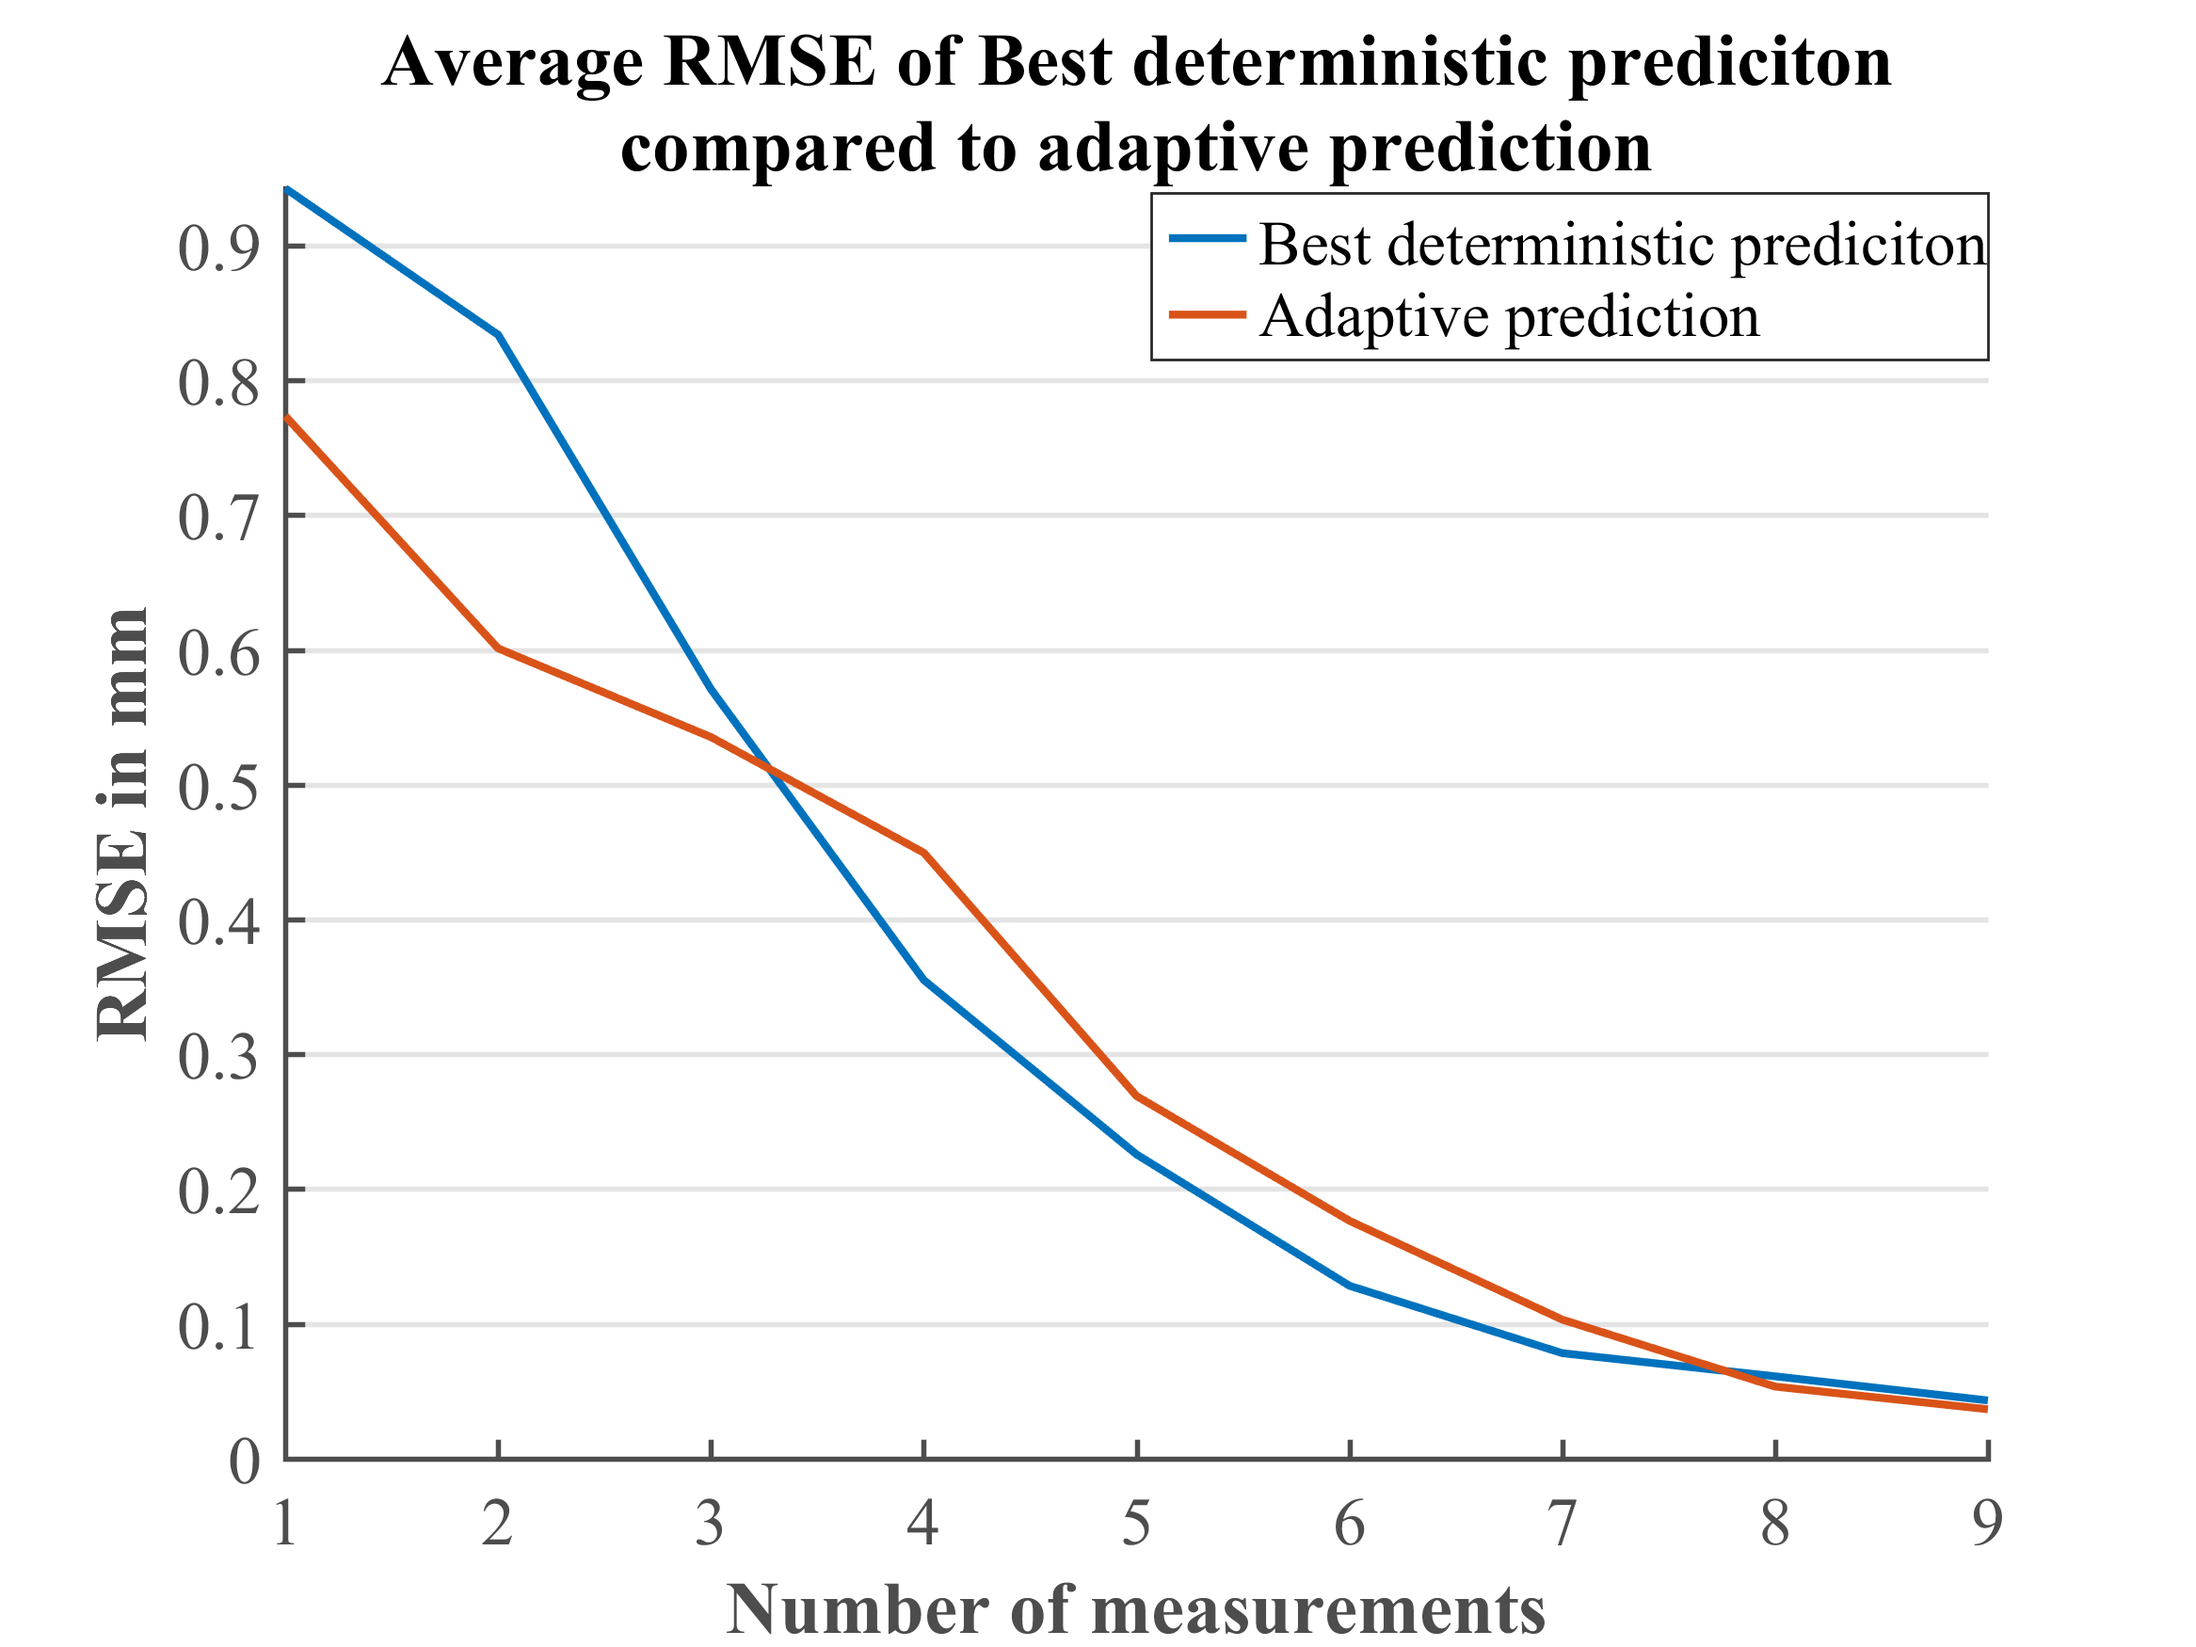
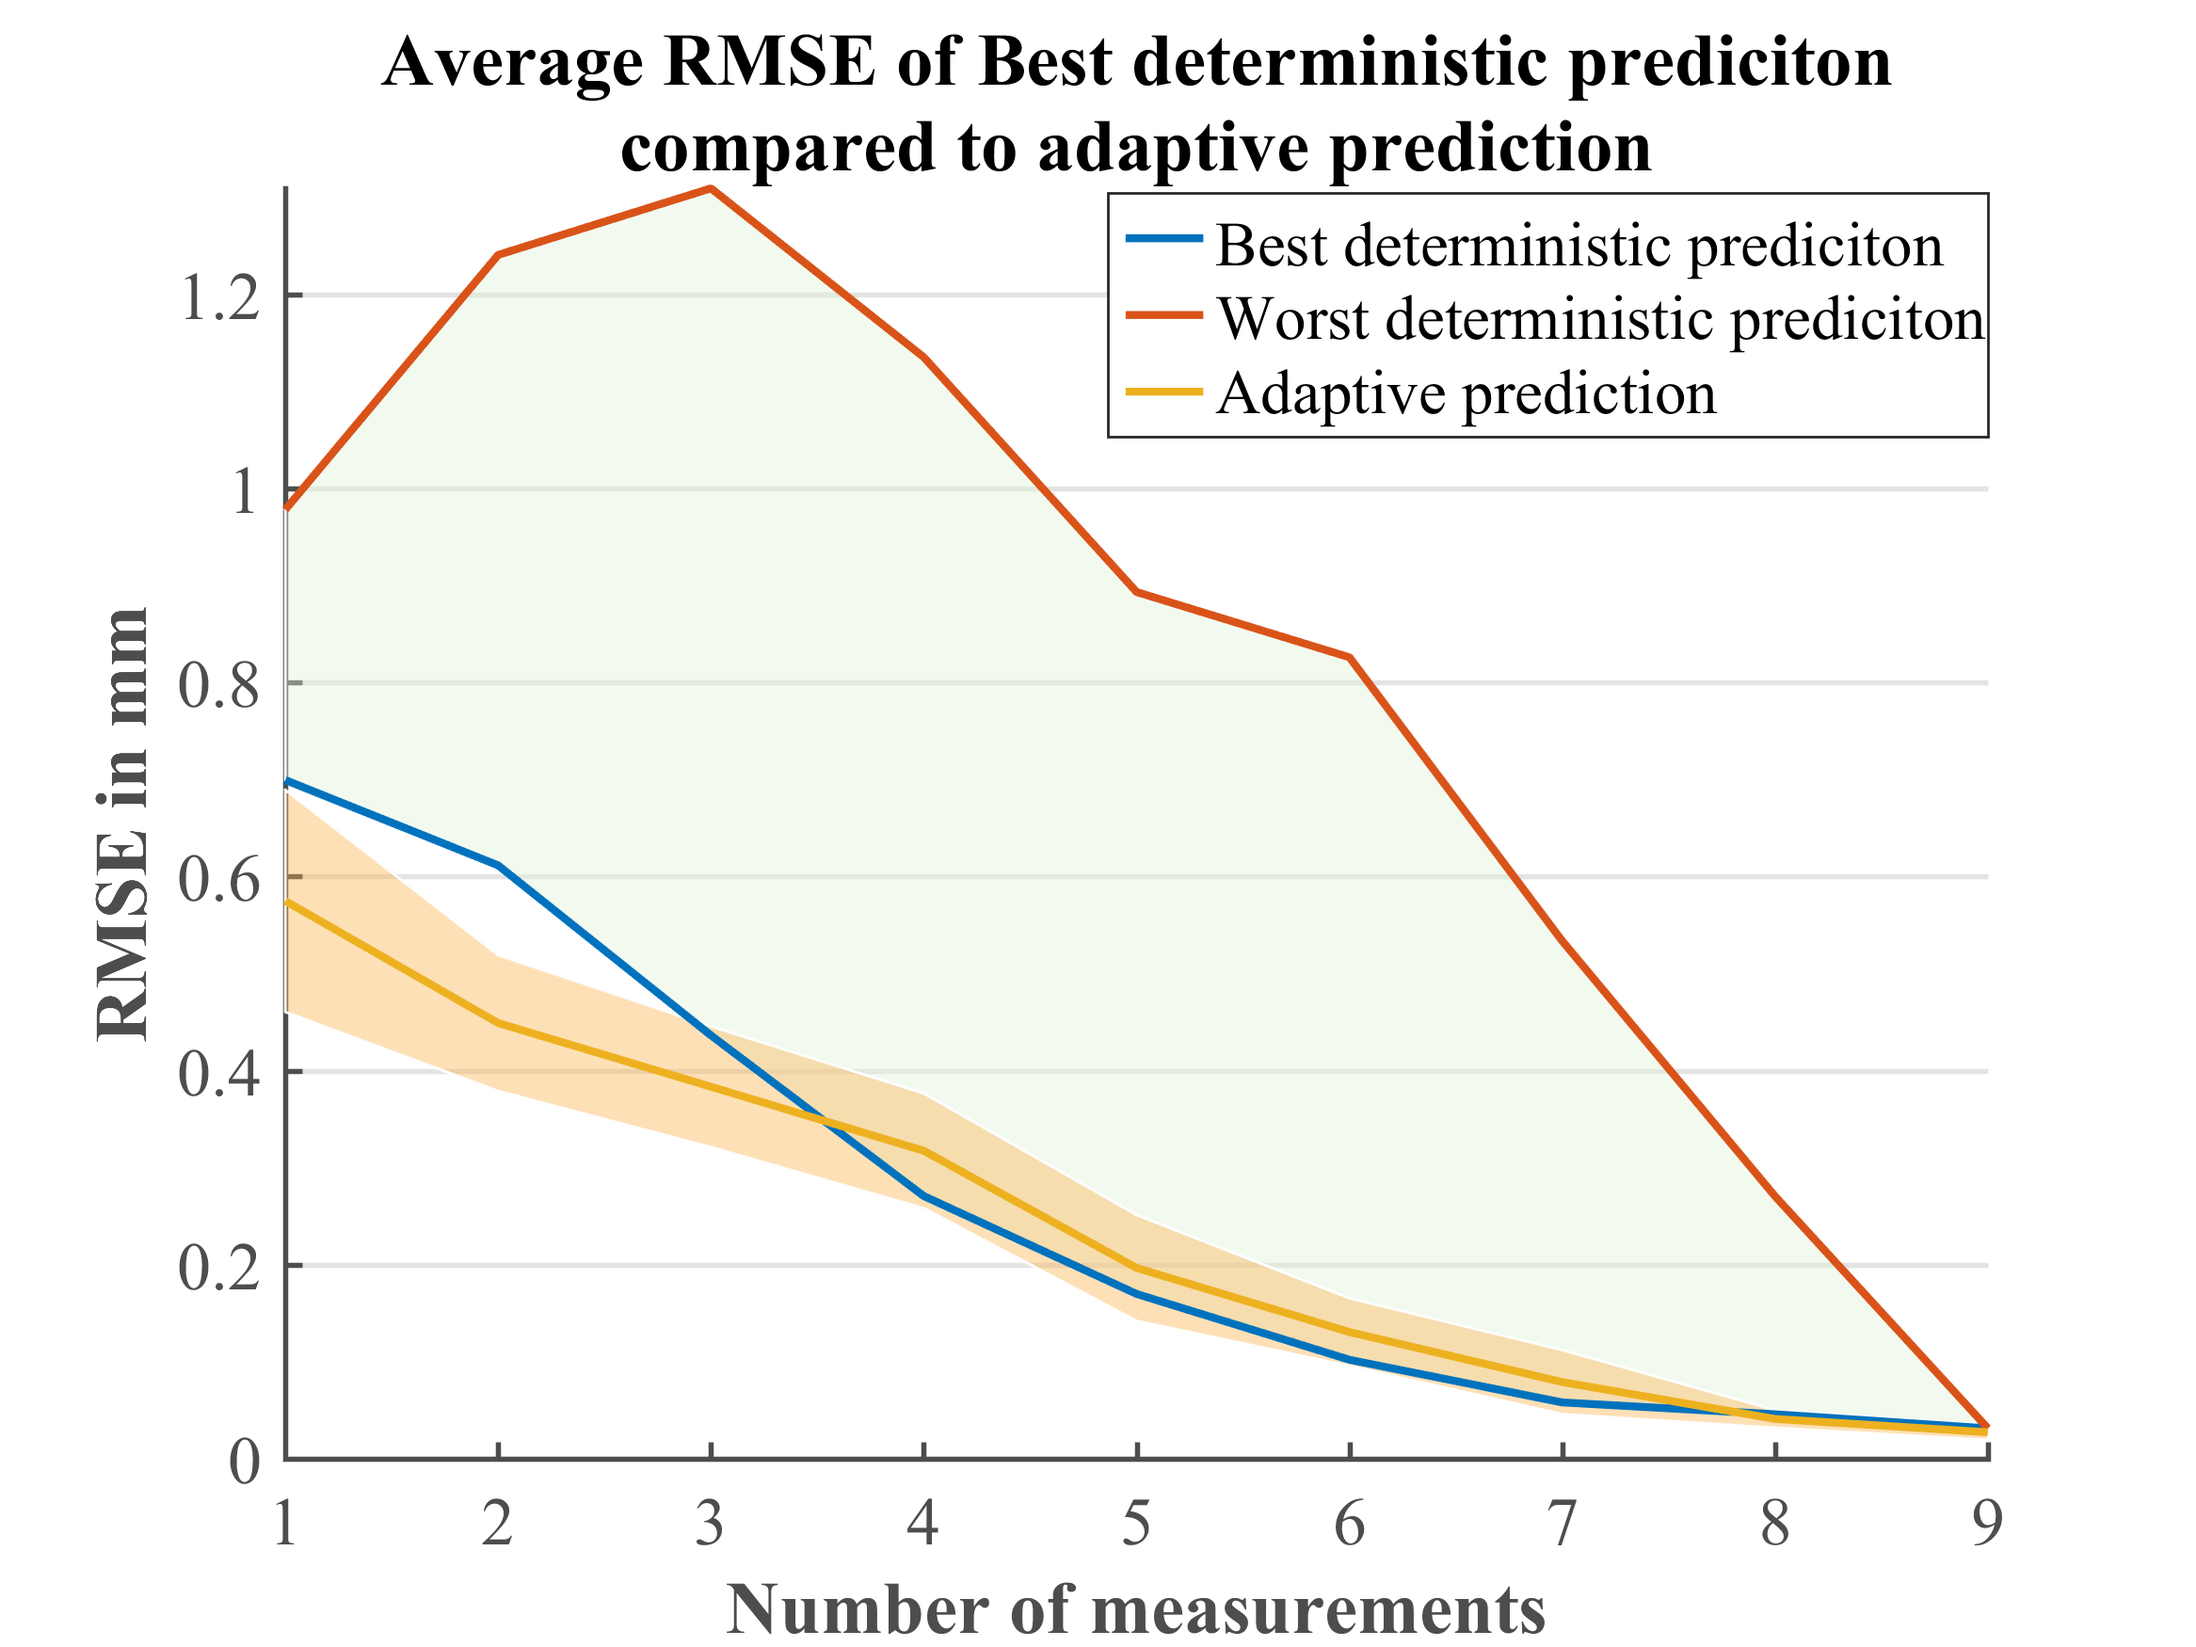
deterministic vs adaptive comparison
made changes to the code  to include worst seterministic and plot standard error of adaptive predictions

diff --git a/compareDetAdaptiveInner.m b/compareDetAdaptiveInner.m
@@ -11,168 +11,122 @@ path(path,'\\megara\dlmr\Manoj\all data sensitivity inner'); % all data files in
 load('innerEigWithkrigYtp12batch45basis_1.0W1_0.0W2.mat'); % contains structure seqPred %
 
 
-
-% %% deterministic pattern search
-% numberCompleteMeasure=10;
-% regionsMes(9).Seq(1).Pattern(1).Dev=[];
-% 
-% for nMes=1:9
-% 
-% 	delta(nMes).Min=inf;
-% 	delta(nMes).MinSeq=[];
-% 	
-% 	
-% 	for j=1:length(regionsMes(nMes).Seq)
-% 		
-% 		
-% 		rmseD=0;
-% 		rmseA=0;
-% 		allMesReg=regionsMes(nMes).Seq(j).Regions;
-% 		nMesReg=length(allMesReg);
-% 		
-% 		for i=numberCompleteMeasure+1:50 % i for each part
-% 			
-% 			% saving predictions
-% 			ytt(i,:)=regionsMes(nMes).Seq(j).Pattern(i).Dev;
-% 			VarYtt(i,:)=regionsMes(nMes).Seq(j).Pattern(i).Var;
-% 			rmseD=rmseD+regionsMes(nMes).Seq(j).Pattern(i).Rmse;
-% 			rmseA=rmseA+seqPred(i).Snap(nMesReg).RmseT(nMesReg);
-% 		end
-% 		delta(nMes).Seq(j)=((rmseD-rmseA)/rmseD)*100;
-% 		
-% 		if delta(nMes).Seq(j)<delta(nMes).Min
-% 			delta(nMes).Min=delta(nMes).Seq(j);
-% 			delta(nMes).MinSeq=allMesReg;
-% 		end
-% 	end
-% 	
-% 	bestSeqComp(nMes)=delta(nMes).Min;
-% end
-% 
-% fig=figure;
-% hh=plot(bestSeqComp(1:end));
-% fig=changeAxesLooks(fig,{'Average improvement in RMSE with adaptive measurement','compared to best fixed measurement sequence'},...
-% 	'Number of measurements','Percentage improvement');
-% hh.LineWidth=1.5;
-
 %% Rmse diff AFTER EACH MEASUREMET AVERAGED FOR ALL PATTERNS
 
-numberCompleteMeasure=10;
-regionsMes(9).Seq(1).Pattern(1).Dev=[];
+numberCompleteMeasure   =10;
+maxSnap                 =9;
+nPattern                =length(seqPred);
+totalInstances          = nPattern-(numberCompleteMeasure);
+
+
+regionsMes(maxSnap).Seq(1).Pattern(1).Dev=[];
 
 
 %% rmse for a given sequence(j) averaged over all parts(variation pattern(i)), compared
 %with average of rmse of adaptive measurements after same no of
 %measurements for all parts(variation pattern)
 for nMes=1:9
-	fileName=sprintf('detAllSeq%dReg.mat',nMes);
-	tempvar=load(fileName);
-	regionsMes(nMes).Seq=tempvar.regionsMes.Seq;
-	delta(nMes).Min=inf;
-	delta(nMes).MinSeq=[];
-	
-	for j=1:length(regionsMes(nMes).Seq)
-		rmseD=0;
-		rmseA=0;
-		
-		allMesReg=regionsMes(nMes).Seq(j).Regions;
-		nMesReg=length(allMesReg);
-		for i=numberCompleteMeasure+1:50 % i for each part
-			
-			% saving predictions
-% 			ytt(i,:)=regionsMes(nMes).Seq(j).Pattern(i).Dev;
-% 			VarYtt(i,:)=regionsMes(nMes).Seq(j).Pattern(i).Var;
-			rmseD=rmseD+regionsMes(nMes).Seq(j).Pattern(i).Rmse;
-			rmseA=rmseA+seqPred(i).Snap(nMesReg).RmseT(nMesReg);
-		end
-		delta(nMes).Seq(j)=((rmseD-rmseA)/rmseD)*100;
-		
-		if delta(nMes).Seq(j)<delta(nMes).Min
-			delta(nMes).Min=delta(nMes).Seq(j);
-			delta(nMes).RmseD=rmseD;
-			delta(nMes).RmseA=rmseA;
-			delta(nMes).MinSeq=allMesReg;
-		end
-	end
-	
-	bestSeqComp(nMes)=delta(nMes).Min;
+    fileName=sprintf('detAllSeq%dReg.mat',nMes);
+    tempvar=load(fileName);
+    regionsMes(nMes).Seq=tempvar.regionsMes.Seq;
+    
+    delta(nMes).Min=inf;
+    delta(nMes).MinSeq=[];
+    
+    delta(nMes).Max=0;
+    delta(nMes).MaxSeq=[];
+    
+    for j=1:length(regionsMes(nMes).Seq)
+        rmseD=0;
+        rmseA=0;
+        
+        allMesReg=regionsMes(nMes).Seq(j).Regions;
+        nMesReg=length(allMesReg);
+        for i=numberCompleteMeasure+1:totalInstances % i for each part
+            
+            % adding Rmse
+            rmseD=rmseD+regionsMes(nMes).Seq(j).Pattern(i).Rmse;
+            rmseA=rmseA+seqPred(i).Snap(nMesReg).RmseT(nMesReg);
+        end
+        delta(nMes).Seq(j)=((rmseD-rmseA)/rmseD)*100;
+        
+        if delta(nMes).Seq(j)<delta(nMes).Min
+            delta(nMes).Min=delta(nMes).Seq(j);
+            delta(nMes).RmseDetMin=rmseD;
+            delta(nMes).RmseA=rmseA;
+            delta(nMes).MinSeq=allMesReg;
+            
+        end
+        if delta(nMes).Seq(j)>delta(nMes).Max
+            delta(nMes).Max=delta(nMes).Seq(j);
+            delta(nMes).RmseDetMax=rmseD;
+            delta(nMes).RmseA=rmseA;
+            delta(nMes).MaxSeq=allMesReg;
+        end
+    end
+    
 end
+
+%% plotting 
 
 for i=1:nMes
-	rmseAvgDet(i)=delta(i).RmseD;
-	rmseAvgAdap(i)=delta(i).RmseA;
+    rmseAvgDetMin(i)=delta(i).RmseDetMin;
+    rmseAvgDetMax(i)=delta(i).RmseDetMax;
+    rmseAvgAdap(i)=delta(i).RmseA;
 end
 
-nPattern=50;
-totalInstances= nPattern-(numberCompleteMeasure);
+% standard error claculation
+rmseSE=zeros(totalInstances,maxSnap);
+count=1;
+for i=numberCompleteMeasure+1:nPattern    
+    rmseSE(count,:)=seqPred(i).Snap(maxSnap).RmseT;
+    count=count+1;
+end
+stdError=std(rmseSE)./sqrt(size(rmseSE,1));
+stdError=stdError.*1.96;
+% average
+rmseAvgDetMin=rmseAvgDetMin./totalInstances;
+rmseAvgAdap=rmseAvgAdap./totalInstances;
+rmseAvgDetMax=rmseAvgDetMax./totalInstances;
 
-% Plotting average RMSE
+% plotting standard error
+upperStdErr=rmseAvgAdap+stdError;
+lowerStdErr=rmseAvgAdap-stdError;
+fillRmseYAdap=[upperStdErr,fliplr(lowerStdErr)]';
+
 fig=figure;
-hh=plot(1:length(rmseAvgDet),rmseAvgDet./totalInstances,1:length(rmseAvgAdap),rmseAvgAdap./totalInstances);
+
+fillX=[1:length(rmseAvgDetMax),fliplr(1:length(rmseAvgDetMin))]';
+fillYDet=[rmseAvgDetMax,fliplr(rmseAvgDetMin)]';
+
+patchHandle=patch(fillX,fillYDet,[224,243,219]./256);
+patchHandle.FaceAlpha=0.4;
+patchHandle.EdgeColor=[255,255,255]./256; % now white
+hold all
+patchHandle=patch(fillX,fillRmseYAdap,[254,178,76]./256);
+patchHandle.FaceAlpha=0.4;
+patchHandle.EdgeColor=[255,255,255]./256;
+
+% Plotting means, max and min
+hold all
+hh=plot(1:length(rmseAvgDetMin),rmseAvgDetMin,...
+    1:length(rmseAvgDetMax),rmseAvgDetMax,...
+    1:length(rmseAvgAdap),rmseAvgAdap);
+
 fig=changeAxesLooks(fig,{'Average RMSE of Best deterministic prediciton','compared to adaptive prediction'},...
-	'Number of measurements','RMSE in mm');
+    'Number of measurements','RMSE in mm');
 
 set(hh,'linewidth',1.5);
 
-legendflex(hh, {'Best deterministic prediciton','Adaptive prediction'}, ...
-	'anchor', {'ne','ne'}, ...
-	'buffer', [0 0], ...
-	'nrow',   2,...
-	'fontsize',12, ...
-	'xscale', 0.66, ...
-	'box','on');
+legendflex(hh, {'Best deterministic prediciton','Worst deterministic prediciton','Adaptive prediction'}, ...
+    'anchor', {'ne','ne'}, ...
+    'buffer', [0 0], ...
+    'nrow',   3,...
+    'fontsize',12, ...
+    'xscale', 0.66, ...
+    'box','on');
+
+
 print('-r400','detAdpCompHinge','-dpng');
-
-% Plotting average RMSE improvement
-fig=figure;
-hh=plot(bestSeqComp(2:end));
-fig=changeAxesLooks(fig,{'Average improvement in RMSE with adaptive measurement','compared to best fixed measurement sequence'},...
-	'Number of measurements','Percentage improvement');
-hh.LineWidth=1.5;
-
-
-%% plotting rmse sensitivity separately
-% 
-% % nBasis		=40;%[5:5:60];
-% numberCompleteMeasure=10;
-% maxSnap=9;
-% 
-% % plot parameters
-% markers = {'o','s','d','^','v','x','+','*','.','>','<','p','h','o','s','d','^','v','x'};
-% cmapRmsePlot = cbrewer('qual','Set1',length(nBasis));
-% 
-% % reading data from file
-% 
-% for j=1:length(nTrainBatch)
-% 	
-% 	for w=1:length(infoWeight)
-% 		
-% 		for ww=1:length(distweight)
-% 			
-% 			for k=1:length(nBasis)
-% 				
-% 				fileString=sprintf('innerEigWithkrigYtp1%ibatch%ibasis_%.1fW1_%.1fW2.mat',nTrainBatch(j),nBasis(k),infoWeight(w),distweight(ww));
-% 				seqPred=load (fileString);
-% 				seqPred=seqPred.seqPred;
-% 				
-% 				for i=numberCompleteMeasure+1:length(seqPred)
-% 					rmsePlot(:,i)=seqPred(i).Snap(maxSnap).RmseT;		% accessing each of the 50 replication
-% 				end
-% 				
-% 				rmseAvg(:,k)=sum(rmsePlot,2)./(length(seqPred)-(numberCompleteMeasure)); % averaging all replications
-% 				
-% 			end
-% 			
-% 			% plotting eig cmparison
-% 			lineRmseEig=plot(rmseAvg);
-% 			hold on;
-% 			
-% 		end
-% 		
-% 		
-% 	end
-% 	
-% 	
-% end
 
 

diff --git a/compGlobal.m b/compGlobal.m
@@ -2,14 +2,14 @@
 % removed all redundat code, refer compareEigInnerNewAdapCriter for code to
 % plot and other redundancies
 
-%{
+% {
 % The block comment line to enable effective debug -remove the space after '%'
 %close all;
 clear ;
 dbstop if error;
 
 run 'C:\Users\babu_m\Documents\GitHub\source\initFiles.m';
-% path(path,'\\megara\dlmr\Manoj\all data sensitivity inner'); % all data files in megara
+path(path,'\\megara\dlmr\Manoj\all data sensitivity inner'); % all data files in megara
 
 eps         =10E-16;
 fem         =femInit();
@@ -53,8 +53,8 @@ nu.StdDev   =1e-4;
 testBatch		=8;
 nTrainBatch		=[2];
 nBasis			=35;%5:5:70;    %     % set containing number of basis vectors
-infoWeight		= 1;
-distweight		= 0;
+infoWeight		= .8;
+distweight		= .2;
 
 devTest				=devPatterns(testBatch).FemDevDomain;
 devKey  =devTest(:,iMnp);
@@ -275,6 +275,8 @@ for j=1:length(nTrainBatch)
 	
 end
 
+load('S:\DLMR\Manoj\all data sensitivity inner\bestDeterministic.mat')
+plot(rmseAvgDet)
 
 
 
